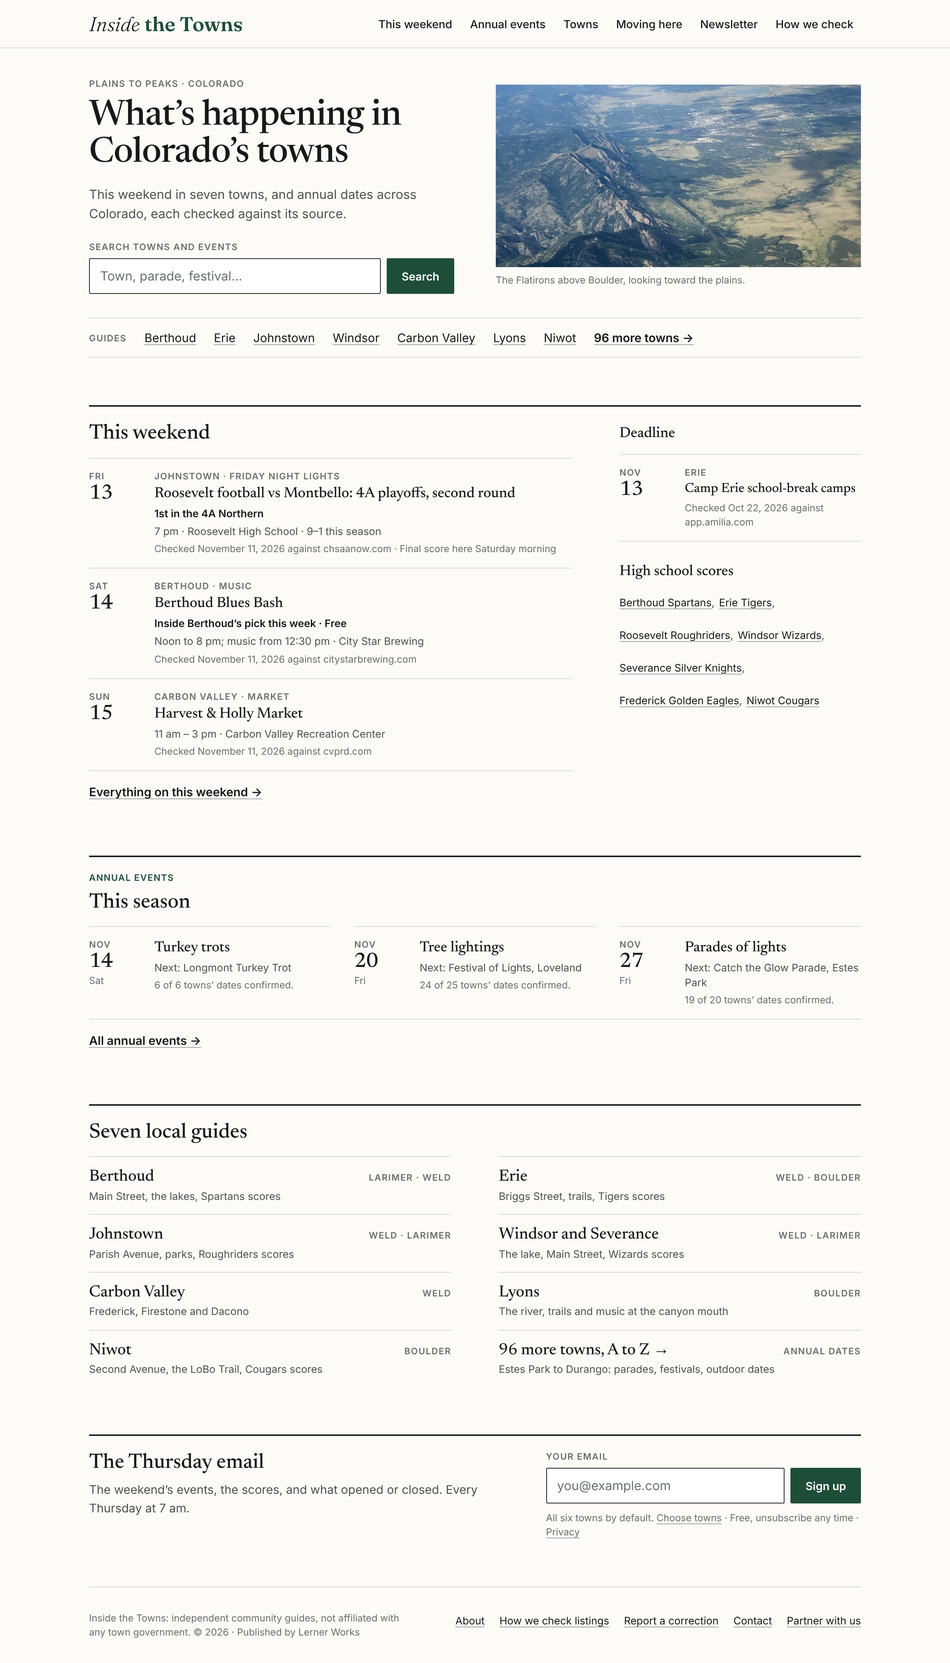
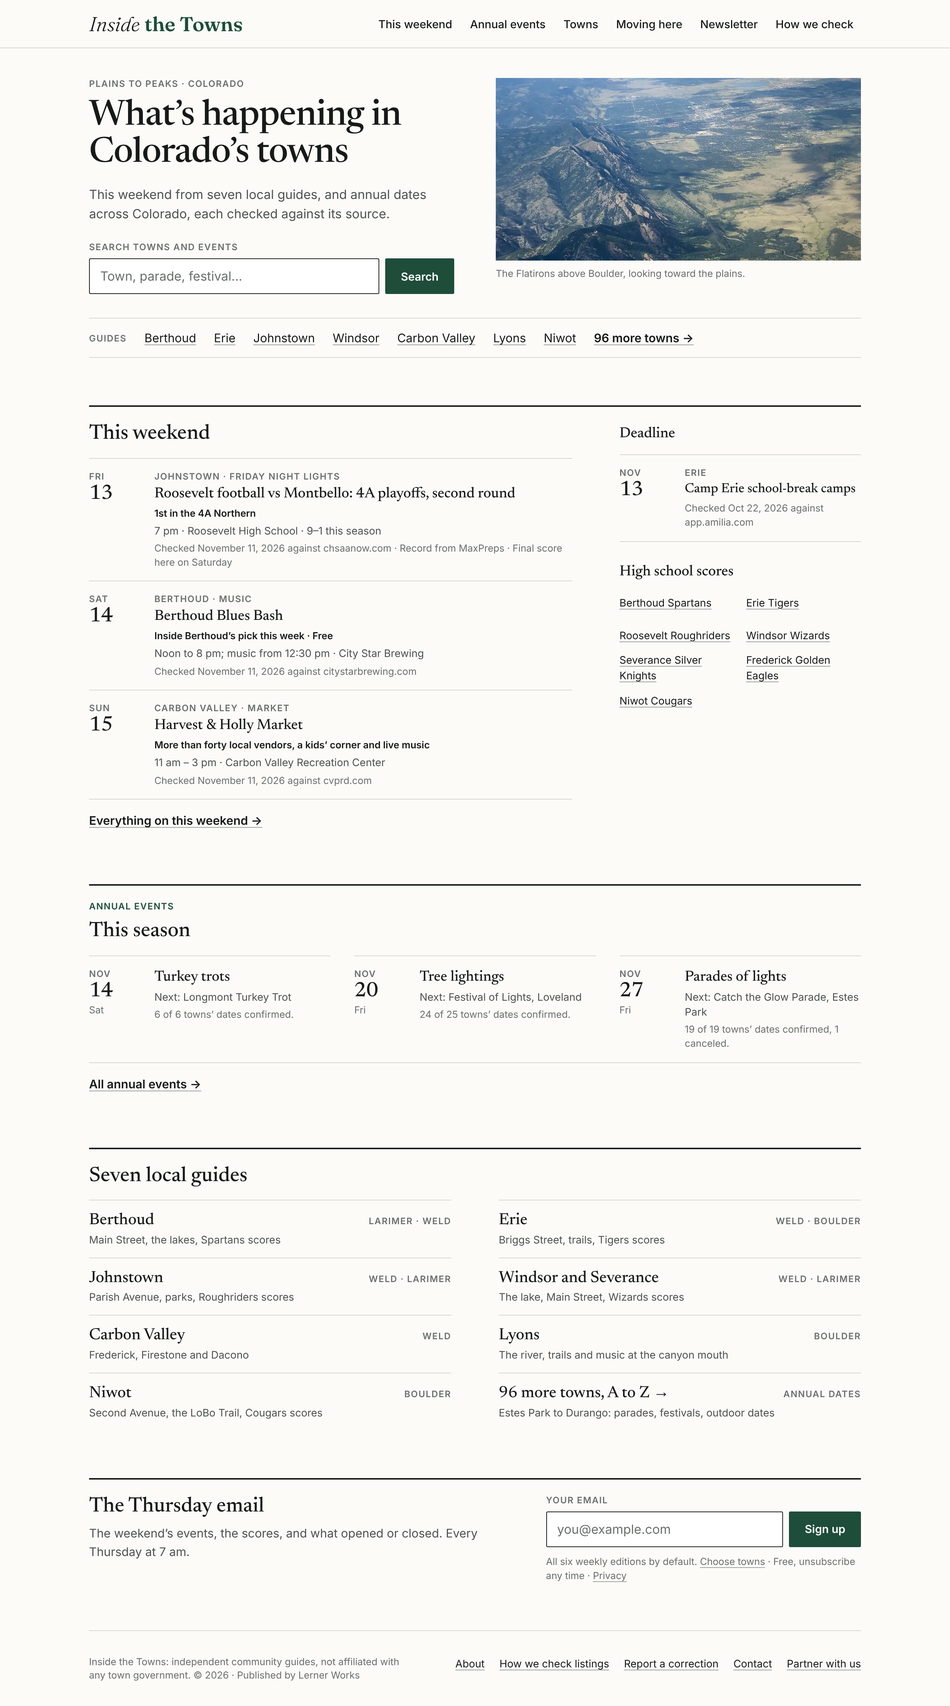
Hub home: fixes from the design, content, navigation and search audits
- 'Final score here on Saturday', and the game's record marked as
  MaxPreps's.
- Season counts are of dates set, held or to come, with a canceled date
  counted apart.
- Weekend picks: the weekend's best listing placed first; a run of days
  counts on each day; round run times only; whole-word annual match.
- 'Seven local guides', 'six weekly editions'.
- Menu button from 860px, hero stacked from 940px, scores as a list,
  seasons three across or one, square focus outlines, button hover and
  forced-colours edge, the phone menu closes when left.
- The hero photograph cut once to the 2:1 band shown.

Claude-Session: https://claude.ai/code/session_01EAS8nXyC6Dbp69gVZ5SYjU

diff --git a/src/lib/hub-home.ts b/src/lib/hub-home.ts
@@ -26,7 +26,7 @@ import type { Confidence } from './confidence.ts';
 import { isTentative } from './confidence.ts';
 import { addDays, dayKey, formatDate, formatShortDate, parseLocal } from './dates.ts';
 import { checkedBy } from './editor.ts';
-import { PLAN_YOUR_DAY, forGeneralReaders, isFlagged, isPast, oneOffs, weekendWindow } from './events.ts';
+import { PLAN_YOUR_DAY, forGeneralReaders, isFlagged, isMultiDay, isPast, lastDay, oneOffs, weekendWindow } from './events.ts';
 import { FLAGSHIP_TEAM, formatGameTime, leaguePlace, placeText, where } from './school-sports.ts';
 import { isFreeCost } from './cost.ts';
 import { homeOf } from './hub-towns.ts';
@@ -39,20 +39,24 @@ import { CURRENT_SEASONS, TRADITION_TYPES, byTown, isDated, isUpcoming, seasonRo
  * on it. A row with no town of its own (a shared or statewide record) is
  * in neither number.
  */
-export function townsConfirmed(rows: ReadonlyArray<{ town?: string; confirmed: boolean }>): { confirmed: number; towns: number } {
-  const towns = new Set<string>();
+export function townsConfirmed(rows: ReadonlyArray<{ town?: string; confirmed: boolean; canceled?: boolean }>): { confirmed: number; towns: number; canceled: number } {
+  const live = new Set<string>();
   const confirmed = new Set<string>();
+  const called = new Set<string>();
   for (const row of rows) {
     if (!row.town) continue;
-    towns.add(row.town);
-    if (row.confirmed) confirmed.add(row.town);
+    if (row.canceled) called.add(row.town);
+    else live.add(row.town);
+    if (row.confirmed && !row.canceled) confirmed.add(row.town);
   }
-  return { confirmed: confirmed.size, towns: towns.size };
+  // A town whose only date was called off is not waiting on a date: it is counted apart.
+  const canceled = [...called].filter((t) => !live.has(t)).length;
+  return { confirmed: confirmed.size, towns: live.size, canceled };
 }
 
 /** "19 of 20 towns’ dates confirmed." */
-export function seasonFeatureLine(counts: { confirmed: number; towns: number }): string {
-  return `${counts.confirmed} of ${counts.towns} ${counts.towns === 1 ? 'town’s' : 'towns’'} dates confirmed.`;
+export function seasonFeatureLine(counts: { confirmed: number; towns: number; canceled?: number }): string {
+  return `${counts.confirmed} of ${counts.towns} ${counts.towns === 1 ? 'town’s' : 'towns’'} dates confirmed${counts.canceled ? `, ${counts.canceled} canceled` : ''}.`;
 }
 
 /** The names the home's search box suggests as they are typed: the guides and the town pages, A to Z, no name twice. */
@@ -187,7 +191,8 @@ type Listing = EventLike & { town: { slug: string }; confidence?: Confidence };
  * Friday's game), never two from one town and never one from a town in
  * `taken`. A listing qualifies when it starts that day and has not
  * finished, the organizer's own page or a person has confirmed it (the
- * `confirmed` level, src/lib/confidence.ts), and it is a one-off for a
+ * `confirmed` level, src/lib/confidence.ts), or it is a run of days still
+ * on that day, and it is a one-off for a
  * general reader: no regular, no standing children's program, nothing
  * civic, canceled or flagged by the re-check, and not a program's own
  * deadline listing (`exclude`). The best is one its guide's editor picked
@@ -224,16 +229,26 @@ export function weekendPicks<T extends Listing>(
   // A guide editor's pick or featured listing first, then a plan-your-day category, then the rest.
   const rank = (e: T) => (picked.has(listingKey(e)) || e.data.featured ? 0 : PLAN_YOUR_DAY.has(e.data.category) ? 1 : 2);
   const place = (slug: string) => order.indexOf(slug) + 1 || order.length + 1;
-  const towns = new Set(taken);
-  const picks = new Map<string, T>();
-  for (const { key } of days) {
-    const best = pool
-      .filter((e) => dayKey(e.data.start) === key && !towns.has(e.town.slug))
-      .sort((a, b) => rank(a) - rank(b) || a.data.start.getTime() - b.data.start.getTime() || place(a.town.slug) - place(b.town.slug))[0];
-    if (!best) continue;
-    picks.set(key, best);
-    towns.add(best.town.slug);
+  // On a day: it starts then, or it is a run of days that began earlier and is still on.
+  const onDay = (e: T, key: string) => {
+    const first = dayKey(e.data.start);
+    return first === key || (isMultiDay(e) && first < key && lastDay(e) >= key);
+  };
+  // The best listing anywhere in the weekend is placed first, so a town's
+  // lesser Friday listing cannot take the town from its Saturday pick.
+  const candidates = days
+    .flatMap(({ key }, day) => pool.filter((e) => !taken.has(e.town.slug) && onDay(e, key)).map((e) => ({ e, key, day })))
+    .sort((a, b) => rank(a.e) - rank(b.e) || a.day - b.day || a.e.data.start.getTime() - b.e.data.start.getTime() || place(a.e.town.slug) - place(b.e.town.slug));
+  const towns = new Set<string>();
+  const chosen = new Map<string, T>();
+  for (const { e, key } of candidates) {
+    if (chosen.has(key) || towns.has(e.town.slug)) continue;
+    chosen.set(key, e);
+    towns.add(e.town.slug);
   }
+  // In the days' own order.
+  const picks = new Map<string, T>();
+  for (const { key } of days) if (chosen.has(key)) picks.set(key, chosen.get(key)!);
   return picks;
 }
 
@@ -357,7 +372,8 @@ export function gameReasons(title: string, team: Pick<SportData, 'league'>, game
 
 /** "Half an hour", "45 minutes", "An hour", "An hour and a half": a short listing's length, up to 90 minutes; nothing longer. */
 export function durationWords(minutes: number): string | undefined {
-  if (!(minutes > 0) || minutes > 90) return undefined;
+  // A quarter of an hour to an hour and a half, in round figures: "61 minutes" is not a reason.
+  if (minutes < 15 || minutes > 90 || minutes % 5 !== 0) return undefined;
   if (minutes === 30) return 'Half an hour';
   if (minutes === 60) return 'An hour';
   if (minutes === 90) return 'An hour and a half';
@@ -387,7 +403,8 @@ export function annualRecordFor(e: Pick<Listing, 'town' | 'data'>, title: string
     if (record.statewide || homeOf(record) !== e.town.slug) continue;
     const entry = record.years.find((y) => y.date === day && isDated(y));
     const name = nameKey(record.name);
-    if (entry && name && (listed.includes(name) || name.includes(listed))) return { record, entry };
+    // Whole words: "Art Walk" is not in "Heart Walk for Lyons".
+    if (entry && name && (` ${listed} `.includes(` ${name} `) || ` ${name} `.includes(` ${listed} `))) return { record, entry };
   }
   return undefined;
 }
@@ -413,7 +430,8 @@ export function listingReasons(
   const length = sameDay && !allDay ? durationWords(Math.round((end!.getTime() - start.getTime()) / 60_000)) : undefined;
   return [
     pick,
-    annual ? (annual.edition ? `The ${ordinal(annual.edition)} annual` : 'Once a year') : undefined,
+    // A first running is not yet annual.
+    annual ? (annual.edition && annual.edition > 1 ? `The ${ordinal(annual.edition)} annual` : 'Once a year') : undefined,
     isFreeCost(cost) ? 'Free' : undefined,
     length,
   ].filter((s): s is string => !!s);
@@ -425,13 +443,14 @@ export function listingReasons(
  * in November 2026), each with a date still to come, the soonest first. The year-round pages (Oktoberfests, rodeos, outdoor dates) are
  * not in it: they are one link away, under all the annual events.
  */
-export function seasonsNow(records: readonly TraditionRecord[], today: string): Array<{ type: TraditionType; counts: { confirmed: number; towns: number }; next: TraditionRow }> {
+export function seasonsNow(records: readonly TraditionRecord[], today: string): Array<{ type: TraditionType; counts: { confirmed: number; towns: number; canceled: number }; next: TraditionRow }> {
   return TRADITION_TYPES.flatMap((type) => {
     if (CURRENT_SEASONS[type]?.year === undefined) return [];
     const rows = seasonRows(records, type, today);
     const next = rows.filter(isUpcoming).sort((a, b) => a.entry.date!.localeCompare(b.entry.date!) || byTown(a, b))[0];
     if (!next) return [];
-    return [{ type, counts: townsConfirmed(rows.map((r) => ({ town: r.record.town?.name, confirmed: isUpcoming(r) }))), next }];
+    // Confirmed is a date the organizer set, held already or still to come, so the count does not fall as the season is played out.
+    return [{ type, counts: townsConfirmed(rows.map((r) => ({ town: r.record.town?.name, confirmed: isDated(r.entry) && !!r.entry.date, canceled: r.entry.status === 'canceled' }))), next }];
   }).sort((a, b) => a.next.entry.date!.localeCompare(b.next.entry.date!));
 }
 
@@ -447,7 +466,10 @@ export function nextLine(record: Pick<TraditionRecord, 'name' | 'town'>): string
  * credit line. The same picture is the page's share image.
  */
 export const HOME_PHOTO = {
+  /** The whole photograph, for the share image. */
   file: 'front-range-flatirons.jpg',
+  /** The 2:1 band of it the page shows, cut once so no reader downloads the rest. */
+  hero: 'front-range-flatirons-hero.jpg',
   alt: 'The Flatirons and the foothills above Boulder from the air, with the plains and their towns beyond',
   caption: 'The Flatirons above Boulder, looking toward the plains.',
 } as const;

diff --git a/src/styles/hub-home.css b/src/styles/hub-home.css
@@ -30,7 +30,9 @@ html:has(> body.hh) { background: #FCFBF8; }
 
 .hh a { color: var(--hh-ink); text-decoration: underline; text-decoration-thickness: 1px; text-underline-offset: 3px; text-decoration-color: var(--hh-underline); }
 .hh a:hover { color: var(--hh-pine); text-decoration-color: var(--hh-pine); }
-.hh :focus-visible { outline: 2px solid var(--hh-pine); outline-offset: 2px; box-shadow: none; }
+.hh :focus-visible { outline: 2px solid var(--hh-pine); outline-offset: 2px; box-shadow: none; border-radius: 0; }
+.hh :is(.hh-field, .hh-btn):focus-visible { border-radius: 2px; }
+.hh .hh-signup-done:focus-visible { outline: 0; }
 /* The skip link (src/layouts/Base.astro), in the page's own terms once it is focused. */
 body.hh > a[href="#main"]:focus { border-radius: 0; background: var(--hh-page); color: var(--hh-ink); border: 1px solid var(--hh-ink); font-weight: 600; text-decoration: none; }
 .hh :is(h1, h2, h3) { font-family: 'Newsreader Variable', Georgia, serif; font-weight: 500; font-variation-settings: normal; letter-spacing: normal; text-wrap: wrap; }
@@ -56,12 +58,12 @@ body.hh > a[href="#main"]:focus { border-radius: 0; background: var(--hh-page); 
 .hh .hh-wm-before { font-style: italic; font-weight: 300; }
 .hh .hh-wm-name { font-weight: 600; color: var(--hh-pine); }
 .hh .hh-nav { display: flex; align-items: center; gap: 4px; }
-.hh .hh-navlink { display: inline-flex; align-items: center; min-height: 44px; padding: 0 10px; font-size: 15px; font-weight: 500; text-decoration: none; }
+.hh .hh-navlink { display: inline-flex; align-items: center; min-height: 44px; padding: 0 10px; font-size: 15px; font-weight: 500; text-decoration: none; white-space: nowrap; }
 .hh .hh-menu { display: none; align-items: center; justify-content: center; width: 44px; height: 44px; border: 0; background: transparent; color: var(--hh-ink); padding: 0; cursor: pointer; }
 
 /* The hero. */
 /* Compact (the reorder of 13 November 2026): two equal columns, a 48px headline and a 2:1 photograph, so the weekend starts within a laptop's first screen. */
-.hh .hh-hero { display: grid; grid-template-columns: minmax(0, 1fr) minmax(0, 1fr); gap: 56px; align-items: center; padding-top: 40px; }
+.hh .hh-hero { display: grid; grid-template-columns: minmax(0, 1fr) minmax(0, 1fr); gap: 56px; align-items: start; padding-top: 40px; }
 .hh .hh-kicker { margin: 0; }
 .hh .hh-h1 { margin: 12px 0 0; font-size: 48px; line-height: 1.05; letter-spacing: -0.015em; }
 .hh .hh-intro { margin: 16px 0 0; font-size: 17px; line-height: 1.55; color: var(--hh-secondary); }
@@ -70,10 +72,11 @@ body.hh > a[href="#main"]:focus { border-radius: 0; background: var(--hh-page); 
 .hh .hh-fieldrow { display: flex; gap: 8px; }
 .hh .hh-field { flex: 1; min-width: 0; height: 48px; box-sizing: border-box; border: 1px solid var(--hh-ink); border-radius: 2px; background: #FFFFFF; padding: 0 14px; font-family: inherit; font-size: 17px; color: var(--hh-ink); }
 .hh .hh-field::placeholder { color: var(--hh-meta); opacity: 1; }
-.hh .hh-btn { height: 48px; padding: 0 20px; border: 0; border-radius: 2px; background: var(--hh-pine); color: #FFFFFF; font-family: inherit; font-weight: 600; font-size: 15px; cursor: pointer; }
+.hh .hh-btn { height: 48px; padding: 0 20px; border: 1px solid transparent; border-radius: 2px; background: var(--hh-pine); color: #FFFFFF; font-family: inherit; font-weight: 600; font-size: 15px; cursor: pointer; }
+.hh .hh-btn:hover { background: var(--hh-ink); }
 .hh .hh-figure { margin: 0; }
 .hh .hh-photo { aspect-ratio: 2 / 1; overflow: hidden; background: var(--hh-hairline); }
-.hh .hh-photo img { display: block; width: 100%; height: 100%; max-width: none; object-fit: cover; object-position: 50% 34%; }
+.hh .hh-photo img { display: block; width: 100%; height: 100%; max-width: none; object-fit: cover; }
 .hh .hh-cap { margin-top: 8px; }
 
 /* The line of guides under the hero. */
@@ -86,7 +89,7 @@ body.hh > a[href="#main"]:focus { border-radius: 0; background: var(--hh-page); 
 
 /* This season: the open seasons side by side, each a row like the weekend's. */
 .hh .hh-season-h { margin: 10px 0 16px; }
-.hh .hh-seasons { display: grid; grid-template-columns: repeat(auto-fit, minmax(260px, 1fr)); column-gap: 32px; border-bottom: 1px solid var(--hh-hairline); }
+.hh .hh-seasons { display: grid; grid-template-columns: repeat(3, minmax(0, 1fr)); column-gap: 32px; border-bottom: 1px solid var(--hh-hairline); }
 .hh .hh-all-annual { margin-top: 6px; }
 
 /* This weekend, and its column of deadlines and scores. */
@@ -101,18 +104,19 @@ body.hh > a[href="#main"]:focus { border-radius: 0; background: var(--hh-page); 
 .hh .hh-ttl-sm { font-size: 18px; }
 .hh .hh-stack { display: flex; flex-direction: column; gap: 4px; }
 /* Why a weekend listing earned the space ("Free · Half an hour"), from its fields. */
-.hh .hh-why { font-size: 14px; line-height: 1.45; font-weight: 600; color: var(--hh-ink); }
+.hh .hh-why { font-size: 13px; line-height: 1.45; font-weight: 600; color: var(--hh-ink); }
 .hh .hh-all-weekend { margin-top: 6px; }
 .hh .hh-h3 { margin: 4px 0 16px; font-size: 20px; line-height: 1.2; }
 .hh .hh-h3-scores { margin: 28px 0 8px; }
 .hh .hh-side > :first-child.hh-h3-scores { margin-top: 4px; }
-.hh .hh-scores { margin: 0; display: flex; flex-wrap: wrap; column-gap: 6px; }
+.hh .hh-scores { margin: 0; padding: 0; list-style: none; display: grid; grid-template-columns: repeat(auto-fill, minmax(150px, 1fr)); column-gap: 16px; }
 
 /* The guides' index. */
 .hh .hh-index { display: grid; grid-template-columns: repeat(2, minmax(0, 1fr)); column-gap: 64px; }
 .hh .hh-irow { display: block; padding: 14px 0; border-top: 1px solid var(--hh-hairline); text-decoration: none; }
 .hh .hh-irow:hover .hh-iname { color: var(--hh-pine); }
 .hh .hh-ihead { display: flex; align-items: baseline; justify-content: space-between; gap: 12px; }
+.hh .hh-ihead .hh-label { white-space: nowrap; flex: none; }
 .hh .hh-iname { font-family: 'Newsreader Variable', Georgia, serif; font-weight: 500; font-size: 22px; line-height: 1.2; color: var(--hh-ink); }
 .hh .hh-idesc { display: block; margin-top: 2px; }
 
@@ -133,17 +137,25 @@ body.hh > a[href="#main"]:focus { border-radius: 0; background: var(--hh-page); 
 .hh .hh-footer-line { margin: 0; max-width: 420px; padding-top: 12px; }
 .hh .hh-footer-links { display: flex; flex-wrap: wrap; column-gap: 20px; }
 
-@media (max-width: 760px) {
-  .hh .hh-wrap { padding: 0 20px; }
+/* The menu button takes over before the row of links would wrap. */
+@media (max-width: 860px) {
   .hh .hh-nav { display: none; }
   .hh .hh-menu { display: inline-flex; }
   /* The menu, open: the same links, a column under the masthead. */
-  .hh .hh-header[data-open] .hh-nav { display: flex; flex-direction: column; align-items: stretch; gap: 0; position: absolute; z-index: 20; top: 100%; left: 0; right: 0; padding: 0 20px 8px; background: var(--hh-page); border-bottom: 1px solid var(--hh-hairline); }
+  .hh .hh-header[data-open] .hh-nav { display: flex; flex-direction: column; align-items: stretch; gap: 0; position: absolute; z-index: 20; top: 100%; left: 0; right: 0; padding: 0 40px 8px; background: var(--hh-page); border-bottom: 1px solid var(--hh-hairline); }
   .hh .hh-header[data-open] .hh-navlink { padding: 0; border-top: 1px solid var(--hh-hairline); }
   .hh .hh-header[data-open] .hh-navlink:first-child { border-top: 0; }
+}
+/* The hero and the seasons stack before two columns would cramp the headline and the search. */
+@media (max-width: 940px) {
   .hh .hh-hero { grid-template-columns: minmax(0, 1fr); gap: 20px; padding-top: 28px; }
   .hh .hh-h1 { font-size: 36px; }
-  .hh .hh-photo { aspect-ratio: 2 / 1; margin: 0 -20px; }
+  .hh .hh-seasons { grid-template-columns: minmax(0, 1fr); }
+}
+@media (max-width: 760px) {
+  .hh .hh-wrap { padding: 0 20px; }
+  .hh .hh-header[data-open] .hh-nav { padding: 0 20px 8px; }
+  .hh .hh-photo { margin: 0 -20px; }
   .hh .hh-cap { padding: 0 20px; }
   .hh .hh-sec { margin-top: 40px; }
   .hh .hh-h2 { font-size: 24px; }

diff --git a/test/hub-home.test.ts b/test/hub-home.test.ts
@@ -47,7 +47,9 @@ test('the feature counts towns, not dates: a town with two rows is one town', ()
     { town: 'Berthoud', confirmed: true },
     { confirmed: true },
   ]);
-  assert.deepEqual(counts, { confirmed: 2, towns: 3 });
+  assert.deepEqual(counts, { confirmed: 2, towns: 3, canceled: 0 });
+  assert.deepEqual(townsConfirmed([{ town: 'A', confirmed: true }, { town: 'Wellington', confirmed: false, canceled: true }]), { confirmed: 1, towns: 1, canceled: 1 });
+  assert.equal(seasonFeatureLine({ confirmed: 19, towns: 19, canceled: 1 }), '19 of 19 towns’ dates confirmed, 1 canceled.');
 });
 
 test('the feature line reads "19 of 20 towns’ dates confirmed."', () => {
@@ -245,6 +247,20 @@ test('a guide editor’s pick comes before the plan-your-day rule', () => {
   assert.equal(picks.get('2026-11-14')?.data.title, 'Blues Bash');
 });
 
+test('the weekend’s best listing is placed first, and a run of days counts on each day it is on', () => {
+  // Berthoud's lesser Friday listing does not take the town from its Saturday pick.
+  const picks = weekendPicks(
+    [ev('berthoud', 'Friday duo', '2026-11-13T18:00', { category: 'music' }), ev('berthoud', 'Blues Bash', '2026-11-14T12:00', { category: 'music', slug: 'blues-bash' })],
+    days,
+    { now, picked: new Set(['berthoud/blues-bash']) },
+  );
+  assert.deepEqual([...picks].map(([d, e]) => [d, e.data.title]), [['2026-11-14', 'Blues Bash']]);
+  const run = ev('lyons', 'Three-day festival', '2026-11-13T10:00', { category: 'festival' });
+  (run.data as { end?: Date }).end = parseLocal('2026-11-15T17:00');
+  const taken = weekendPicks([run], days.slice(1), { now });
+  assert.deepEqual([...taken.keys()], ['2026-11-14']);
+});
+
 test('a listing’s reasons come from its fields only, and none is better than a filler', () => {
   const listing = (cost: string | undefined, start: string, end?: string, allDay = false) => ({ data: { cost, start: parseLocal(start), end: end ? parseLocal(end) : undefined, allDay } }) as unknown as Parameters<typeof listingReasons>[0];
   assert.deepEqual(listingReasons(listing('Free', '2026-11-14T10:30', '2026-11-14T11:00')), ['Free', 'Half an hour']);
@@ -257,6 +273,9 @@ test('a listing’s reasons come from its fields only, and none is better than a
   assert.equal(durationWords(45), '45 minutes');
   assert.equal(durationWords(60), 'An hour');
   assert.equal(durationWords(120), undefined);
+  assert.equal(durationWords(61), undefined);
+  assert.equal(durationWords(1), undefined);
+  assert.deepEqual(listingReasons(listing(undefined, '2026-11-14T19:00'), { annual: { edition: 1 } }), ['Once a year']);
   assert.deepEqual([1, 2, 3, 11, 12, 13, 21, 78, 101].map(ordinal), ['1st', '2nd', '3rd', '11th', '12th', '13th', '21st', '78th', '101st']);
 });
 
@@ -276,6 +295,8 @@ test('an annual event is a record at home in the listing’s guide, on its day, 
   assert.equal(annualRecordFor(listing, 'Berthoud Parade of Lights', [parade])?.entry.edition, 30);
   assert.equal(annualRecordFor(ev('erie', 'Erie Parade of Lights', '2026-12-05T18:00'), 'Erie Parade of Lights', [parade]), undefined);
   assert.equal(annualRecordFor(ev('berthoud', 'Parade of Lights', '2026-12-06T18:00'), 'Parade of Lights', [parade]), undefined);
+  const walk = record({ slug: 'w', name: 'Art Walk', type: 'festival', years: [year('2026-12-05')] });
+  assert.equal(annualRecordFor(ev('berthoud', 'Heart Walk for Berthoud', '2026-12-05T10:00'), 'Heart Walk for Berthoud', [walk]), undefined);
 });
 
 test('this season is the seasons opened with a year that still have a date to come', () => {
@@ -286,7 +307,7 @@ test('this season is the seasons opened with a year that still have a date to co
     record({ slug: 'd', name: 'Trot', type: 'turkey-trot', years: [year('2026-11-10')] }),
   ];
   const now = seasonsNow(records, '2026-11-13');
-  assert.deepEqual(now.map((s) => [s.type, s.next.record.slug, s.counts]), [['parade-of-lights', 'a', { confirmed: 1, towns: 2 }]]);
+  assert.deepEqual(now.map((s) => [s.type, s.next.record.slug, s.counts]), [['parade-of-lights', 'a', { confirmed: 1, towns: 2, canceled: 0 }]]);
 });
 
 test('the open seasons come soonest first, and a town named in the event is not named twice', () => {

diff --git a/DECISIONS.md b/DECISIONS.md
@@ -11158,3 +11158,34 @@ on seasons that are not on. All three, without a new section:
   Vercel Web Analytics counts clicks by section. Compare each section's
   share over three or four weeks; a before-and-after against the first
   layout would be muddied by Thanksgiving.
+
+## The hub home, after four audits, 13 November 2026 (evening)
+
+Four read-only audits of the reordered home (search, design, content
+accuracy, navigation). Fixed on the home; the rest is listed in the pull
+request for the owner.
+
+- **A listing's `why`:** an optional few words on an event, read on its
+  source, shown on the home's weekend picks in place of the worked-out
+  reasons; refused without a source and a check date.
+- **Promises the page could not keep.** "Final score here Saturday
+  morning" is "on Saturday": the scores run is at 7 am and the hub's
+  rebuild follows mid-morning. The game's record is marked as MaxPreps's.
+- **The season counts** are of dates the organizer set, held or to come,
+  so they no longer fall as a season is played out, and a canceled date is
+  counted apart ("19 of 19 towns' dates confirmed, 1 canceled").
+- **The weekend's picks:** the best listing of the whole weekend is placed
+  first, so a town's lesser Friday listing cannot take the town from its
+  Saturday pick; a run of days counts on each day it is on. A run time is
+  a reason only in round figures; a first running is not "1st annual";
+  an annual event is matched on whole words.
+- **Words:** "from seven local guides" (Niwot lists no events), "six
+  weekly editions" (not towns).
+- **Design:** the menu button from 860px and the hero stacked from 940px
+  (the row of links wrapped and the headline ran to four lines on a
+  tablet); the scores as a list; the seasons three across or one; square
+  focus outlines; a hover and a forced-colours edge on the two buttons;
+  the phone menu closes when focus or a tap leaves it.
+- **The hero photograph** is cut once to the 2:1 band the page shows
+  (`front-range-flatirons-hero.jpg`), so no reader downloads the rest;
+  the whole photograph stays the share image.
